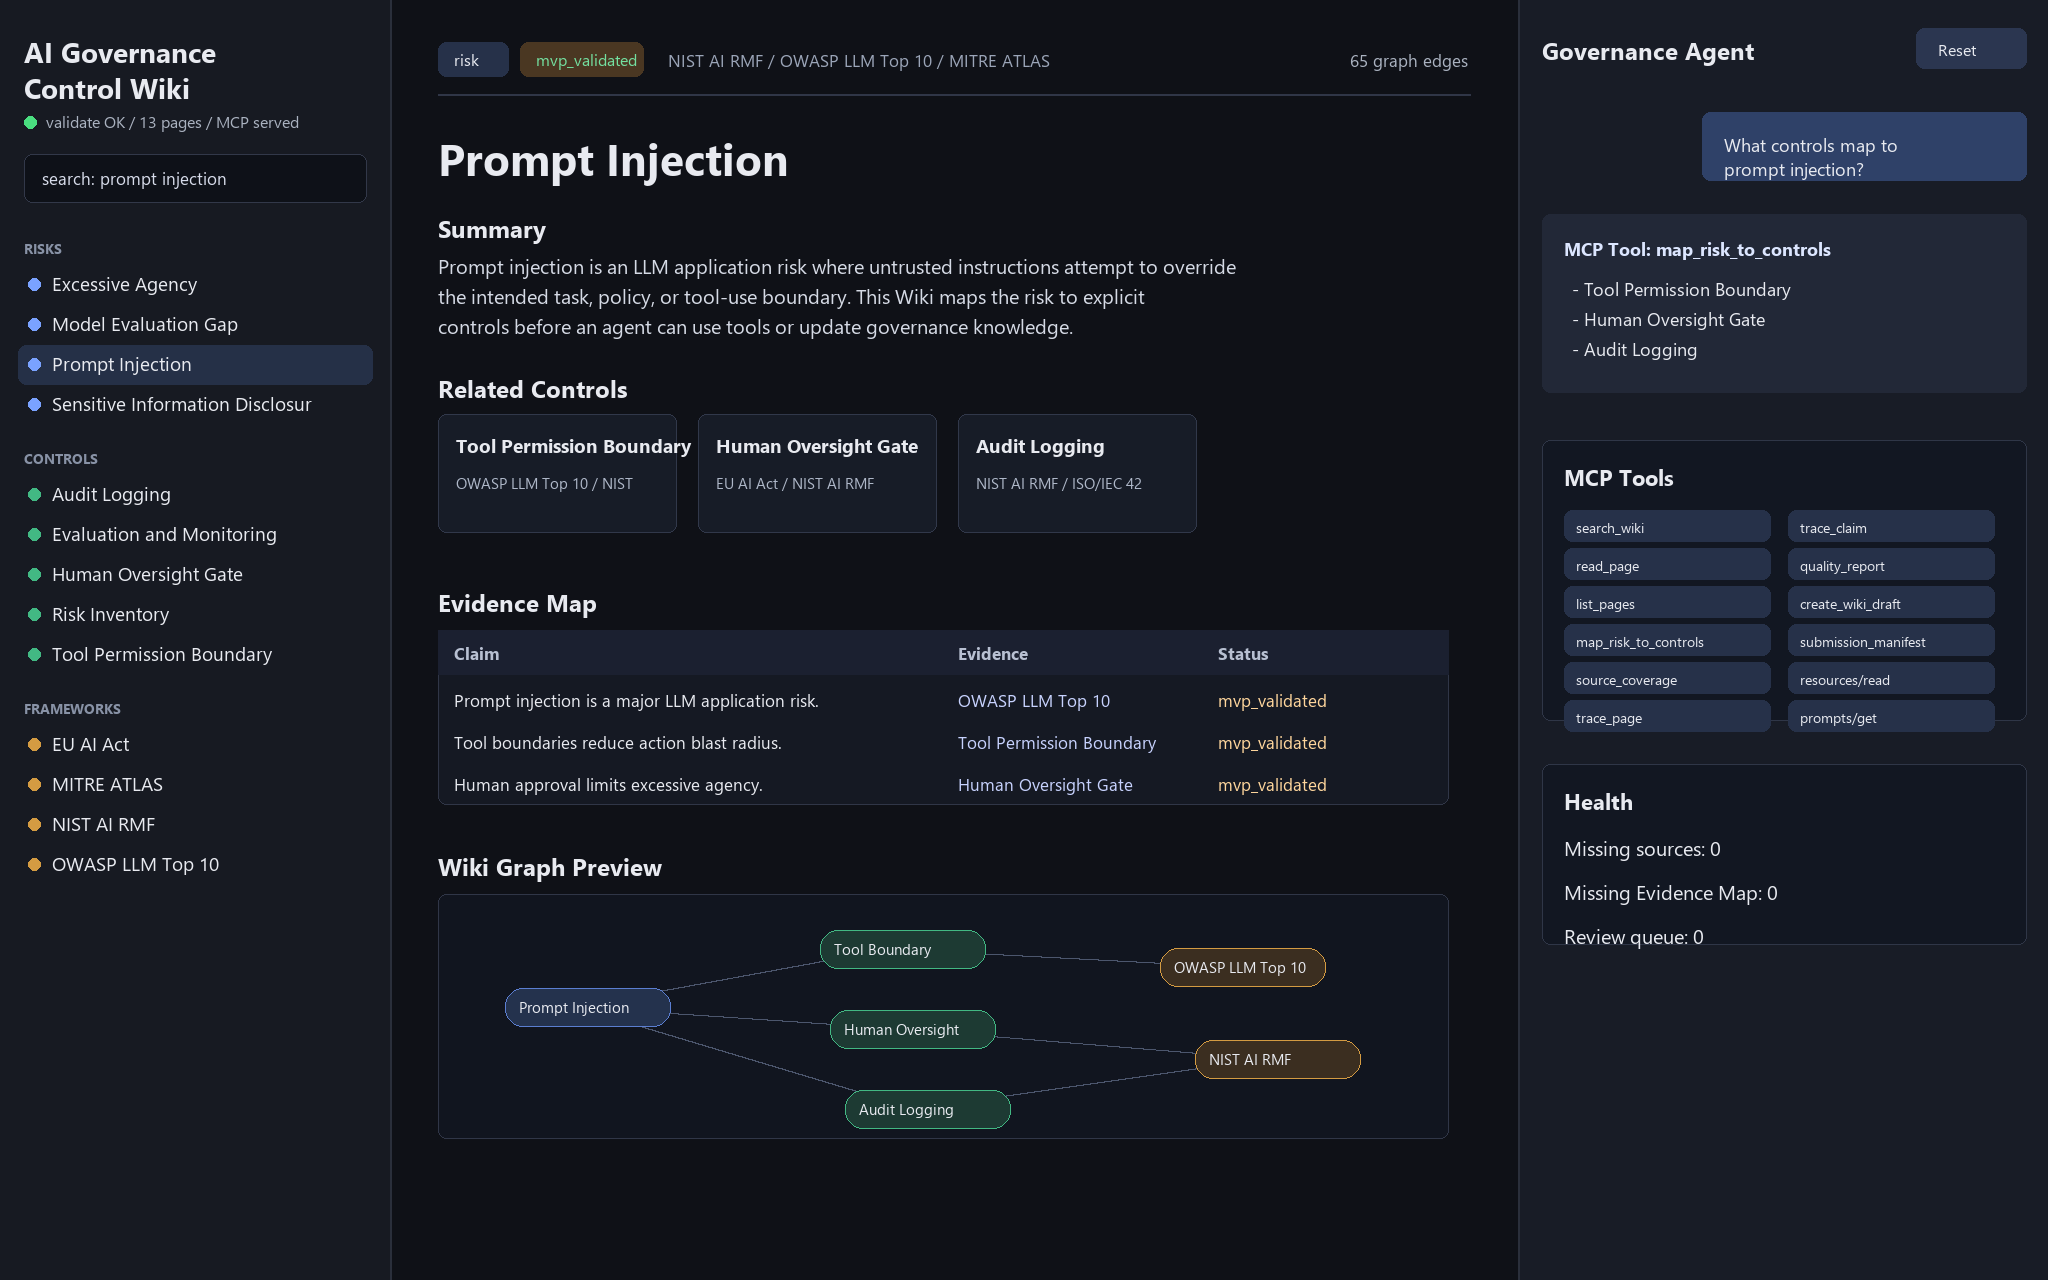
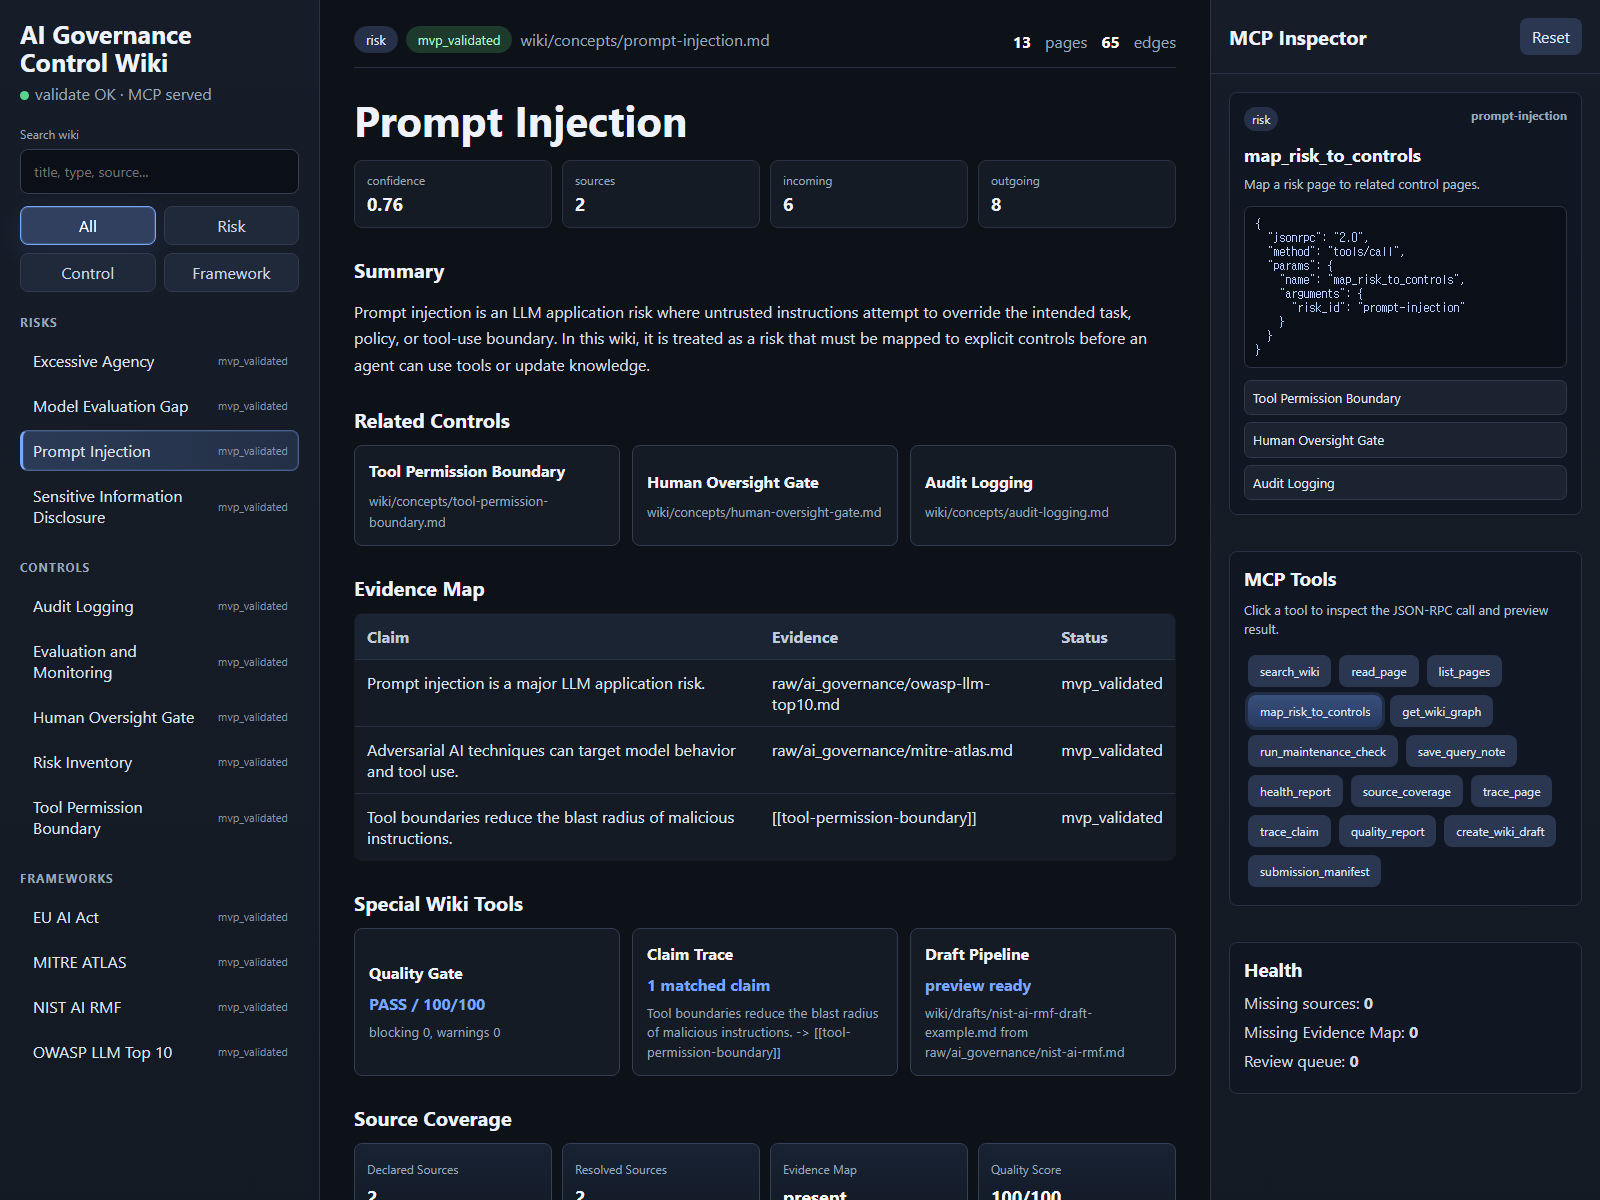
fix: update readme demo screenshot

diff --git a/LOCAL_KNOWLEDGE_MCP_WIKI_GITHUB_READY/app/styles.css b/LOCAL_KNOWLEDGE_MCP_WIKI_GITHUB_READY/app/styles.css
@@ -41,7 +41,7 @@ button:active { transform: translateY(1px) scale(.99); }
 .sidebar { border-right: 1px solid var(--line); padding: 20px; }
 .brand h1 { font-size: 25px; line-height: 1.1; margin: 0 0 8px; letter-spacing: 0; }
 .brand p { color: var(--muted); margin: 0 0 22px; }
-.ok { display: inline-block; width: 9px; height: 9px; border-radius: 50%; background: var(--green); margin-right: 6px; }
+.brand .ok { display: inline-block; width: 9px; height: 9px; border-radius: 50%; background: var(--green); margin-right: 6px; }
 .search-label { display: block; color: var(--muted); font-size: 12px; margin-bottom: 7px; }
 .search {
   width: 100%;
@@ -103,6 +103,7 @@ button:active { transform: translateY(1px) scale(.99); }
   gap: 16px;
 }
 .page-meta {
+  flex: 1 1 auto;
   min-width: 0;
   display: flex;
   align-items: center;
@@ -117,10 +118,12 @@ button:active { transform: translateY(1px) scale(.99); }
   border-radius: 999px;
   font-size: 13px;
 }
-.pill.ok { color: #aaf0c8; background: #1d3a2d; }
+.page-meta .pill.ok { color: #aaf0c8; background: #1d3a2d; }
 #pathText {
-  min-width: 220px;
-  max-width: min(100%, 620px);
+  flex: 1 1 260px;
+  min-width: 0;
+  max-width: 620px;
+  display: block;
   overflow: hidden;
   text-overflow: ellipsis;
   white-space: nowrap;

diff --git a/app/styles.css b/app/styles.css
@@ -41,7 +41,7 @@ button:active { transform: translateY(1px) scale(.99); }
 .sidebar { border-right: 1px solid var(--line); padding: 20px; }
 .brand h1 { font-size: 25px; line-height: 1.1; margin: 0 0 8px; letter-spacing: 0; }
 .brand p { color: var(--muted); margin: 0 0 22px; }
-.ok { display: inline-block; width: 9px; height: 9px; border-radius: 50%; background: var(--green); margin-right: 6px; }
+.brand .ok { display: inline-block; width: 9px; height: 9px; border-radius: 50%; background: var(--green); margin-right: 6px; }
 .search-label { display: block; color: var(--muted); font-size: 12px; margin-bottom: 7px; }
 .search {
   width: 100%;
@@ -103,6 +103,7 @@ button:active { transform: translateY(1px) scale(.99); }
   gap: 16px;
 }
 .page-meta {
+  flex: 1 1 auto;
   min-width: 0;
   display: flex;
   align-items: center;
@@ -117,10 +118,12 @@ button:active { transform: translateY(1px) scale(.99); }
   border-radius: 999px;
   font-size: 13px;
 }
-.pill.ok { color: #aaf0c8; background: #1d3a2d; }
+.page-meta .pill.ok { color: #aaf0c8; background: #1d3a2d; }
 #pathText {
-  min-width: 220px;
-  max-width: min(100%, 620px);
+  flex: 1 1 260px;
+  min-width: 0;
+  max-width: 620px;
+  display: block;
   overflow: hidden;
   text-overflow: ellipsis;
   white-space: nowrap;

diff --git a/LOCAL_KNOWLEDGE_MCP_WIKI_GITHUB_READY/README.md b/LOCAL_KNOWLEDGE_MCP_WIKI_GITHUB_READY/README.md
@@ -204,10 +204,10 @@ powershell -NoProfile -ExecutionPolicy Bypass -File .\scripts\maintenance_check.
 
 `demo/mvp.png`는 실제 지식베이스가 viewer에 렌더링된 화면 캡처입니다.
 
-![MVP demo](demo/mvp.png)
+![MVP demo](demo/mvp.png?raw=1&v=20260615-1938)
 
 ## Repo 공개 주의
 
 이 repo는 public으로 게시해야 평가 조건을 만족합니다. 검색 노출을 줄이고 싶다면 repo 이름, description, topic, README에 특정 학교명/과목명/강의명을 넣지 않는 편이 좋습니다.
 
-파일 갱신 시각: 2026-06-15 19:45:00 +09:00
+파일 갱신 시각: 2026-06-15 19:38:52 +09:00

diff --git a/README.md b/README.md
@@ -204,10 +204,10 @@ powershell -NoProfile -ExecutionPolicy Bypass -File .\scripts\maintenance_check.
 
 `demo/mvp.png`는 실제 지식베이스가 viewer에 렌더링된 화면 캡처입니다.
 
-![MVP demo](demo/mvp.png)
+![MVP demo](demo/mvp.png?raw=1&v=20260615-1938)
 
 ## Repo 공개 주의
 
 이 repo는 public으로 게시해야 평가 조건을 만족합니다. 검색 노출을 줄이고 싶다면 repo 이름, description, topic, README에 특정 학교명/과목명/강의명을 넣지 않는 편이 좋습니다.
 
-파일 갱신 시각: 2026-06-15 19:45:00 +09:00
+파일 갱신 시각: 2026-06-15 19:38:52 +09:00